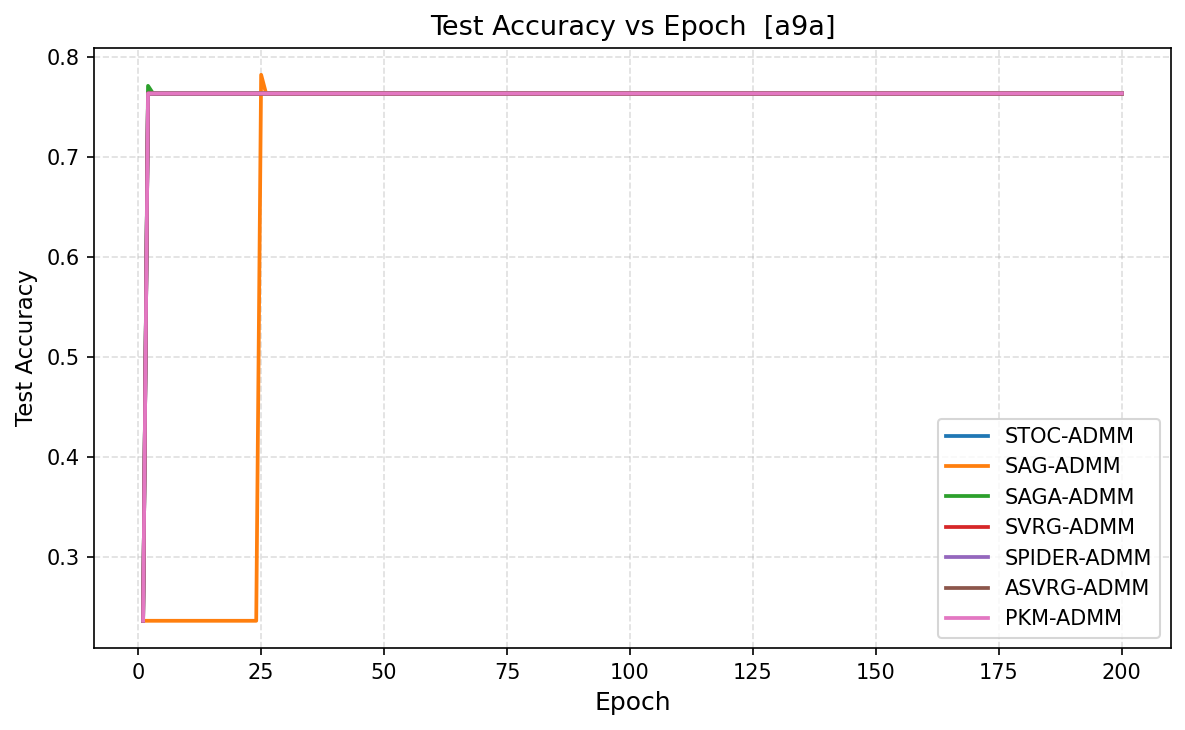
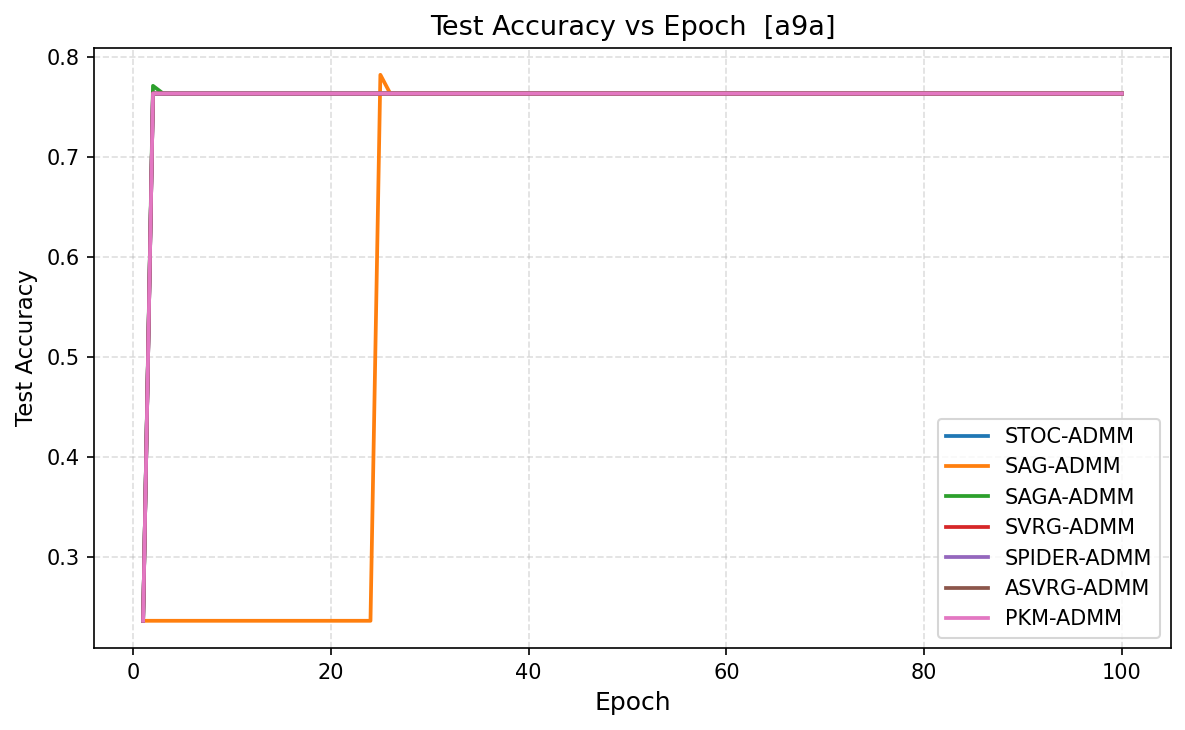
修改了图示 ylabel 标识，使之符合 matplotlib 公式规则

diff --git a/DSCO_ADMM_Experiments/utils/plot_utils.py b/DSCO_ADMM_Experiments/utils/plot_utils.py
@@ -89,7 +89,7 @@ def plot_all_metrics(
         metric_key="gap",
         x_key=None,                  # x 轴使用 epoch 编号（1-indexed）
         xlabel="Epoch",
-        ylabel="Optimality Gap  |F - F*|",
+        ylabel="Optimality Gap  $|F - F^*|$",
         title=f"Optimality Gap vs Epoch  [{dataset_name}]",
         save_path=os.path.join(out_dir, FILENAME_MAP["gap_epoch"]),
         log_y=True,
@@ -105,7 +105,7 @@ def plot_all_metrics(
         metric_key="gap",
         x_key="time",                # x 轴使用累计时间
         xlabel="Wall-clock Time (s)",
-        ylabel="Optimality Gap  |F - F*|",
+        ylabel="Optimality Gap  $|F - F^*|$",
         title=f"Optimality Gap vs Time  [{dataset_name}]",
         save_path=os.path.join(out_dir, FILENAME_MAP["gap_time"]),
         log_y=True,
@@ -121,7 +121,7 @@ def plot_all_metrics(
         metric_key="primal",
         x_key=None,
         xlabel="Epoch",
-        ylabel="Primal Residual  sqrt(1/M * sum ||x_m - y||^2)",
+        ylabel="Primal Residual  $\\sqrt{1/M * \\sum \\|\\mathbf{x}_m - \\mathbf{y}\\|^2}$",
         title=f"Primal Residual vs Epoch  [{dataset_name}]",
         save_path=os.path.join(out_dir, FILENAME_MAP["primal_epoch"]),
         log_y=True,
@@ -137,7 +137,7 @@ def plot_all_metrics(
         metric_key="dual",
         x_key=None,
         xlabel="Epoch",
-        ylabel="Dual Residual  rho * ||y_t - y_{t-1}||",
+        ylabel="Dual Residual  $\\rho \cdot \\|\\mathbf{y}_t - \\mathbf{y}_{t-1}\\|$",
         title=f"Dual Residual vs Epoch  [{dataset_name}]",
         save_path=os.path.join(out_dir, FILENAME_MAP["dual_epoch"]),
         log_y=True,

diff --git a/DSCO_ADMM_Experiments/config.py b/DSCO_ADMM_Experiments/config.py
@@ -46,7 +46,7 @@ GLOBAL_SETTINGS: dict = {
     "M":        10,
 
     # 最大迭代轮次（1 Epoch = 1 ADMM 迭代）
-    "max_iter": 200,
+    "max_iter": 100,
 
     # L1 稀疏正则系数 μ（对应全局目标中的 μ‖y‖₁ 项）
     "mu":       1e-3,
